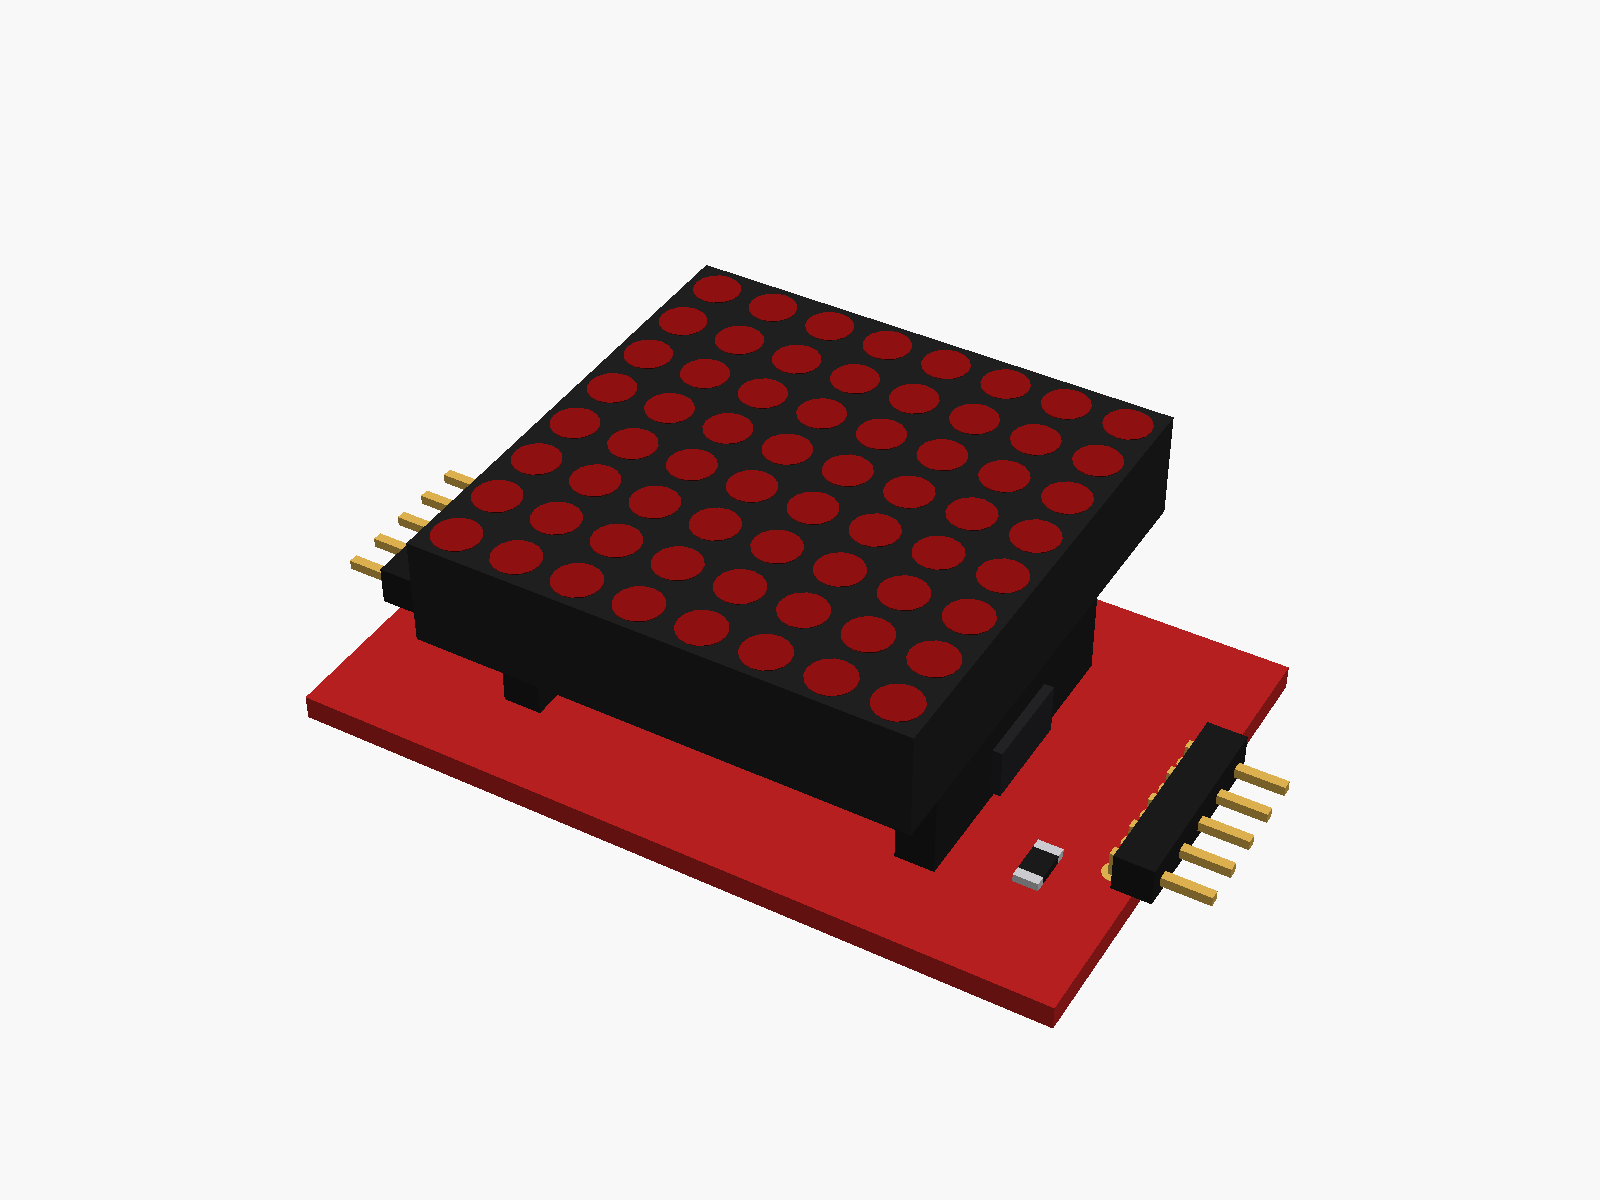
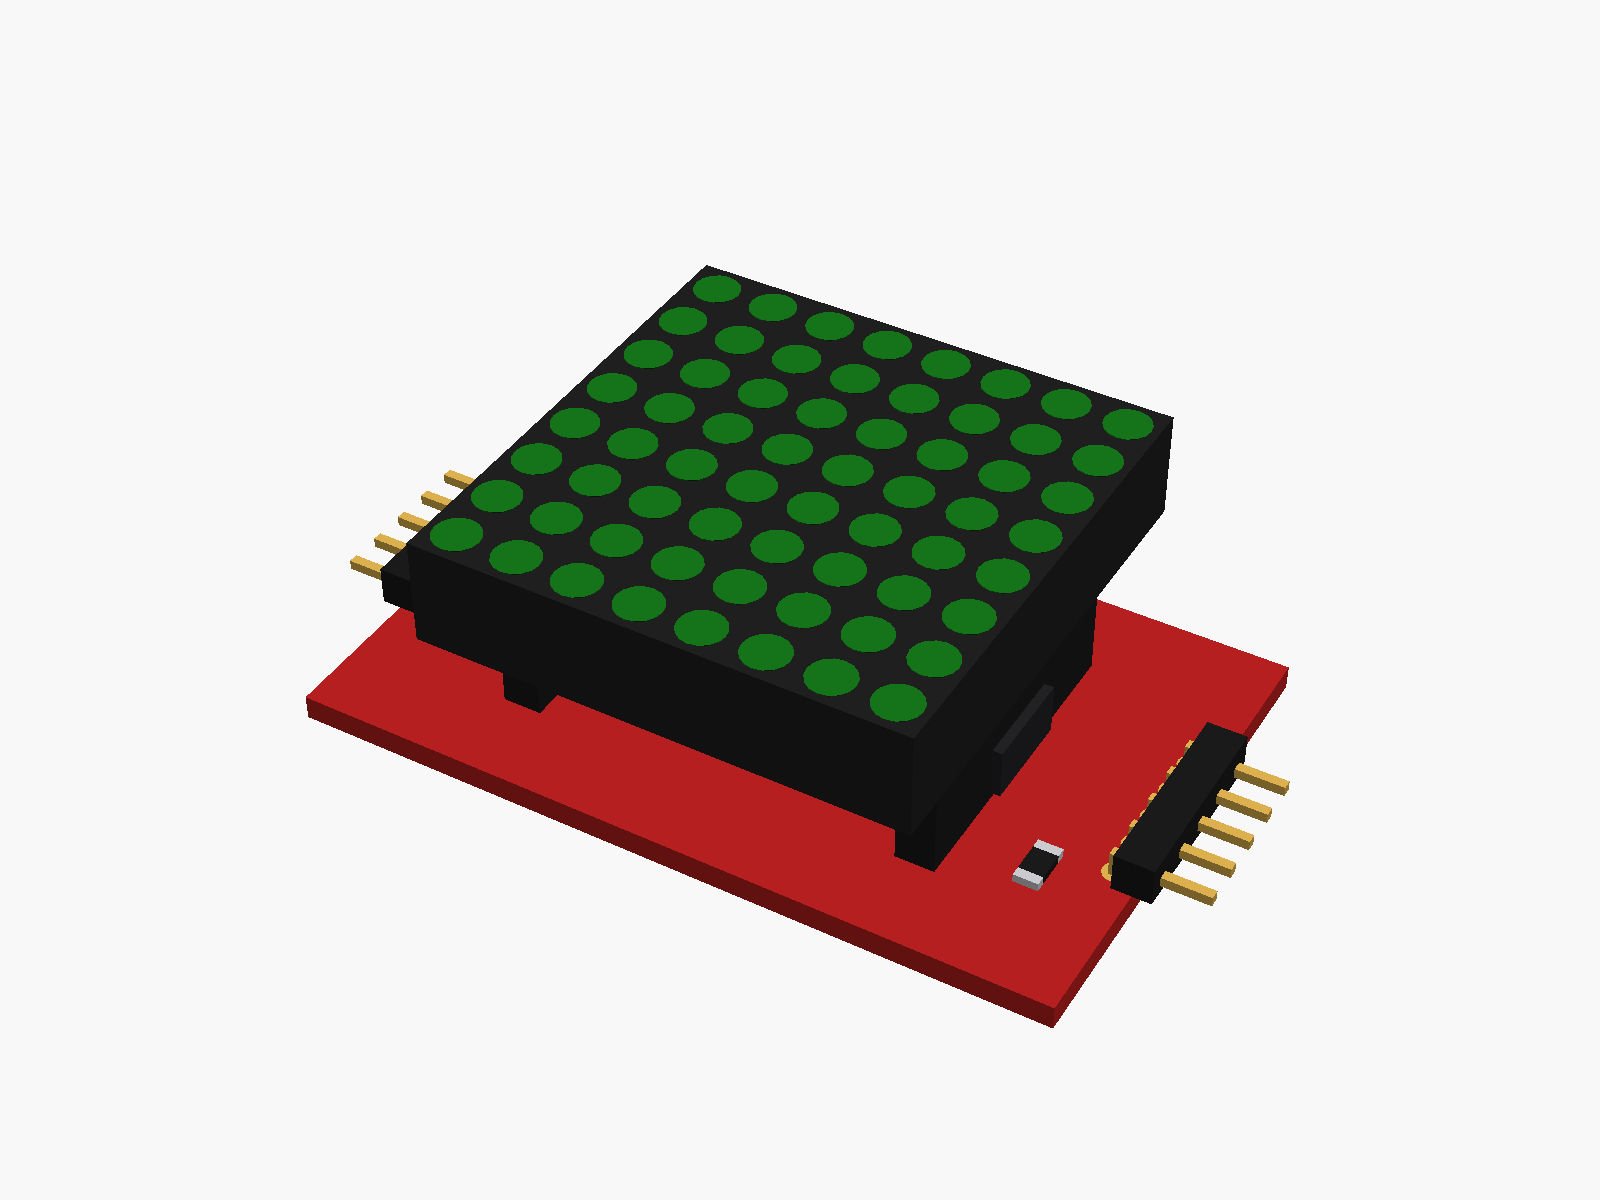
Match the displays to the ones actually ordered
- new: 0.96" IPS TFT ST7735S (from the seller photo), 1.3" OLED SH1106,
  bare 0.36" 4-digit 7-segment display
- MAX7219 boards: LED colour setting, green by default
- LCD1602: I2C backpack on by default, green or blue screen
- ST7789 1.3": corner holes and length from a seller photo; posts as holder
- README marks the models of boards not in the drawer

Changed region(s): [[0.25, 0.2158, 0.7188, 0.6167]]

diff --git a/README.md b/README.md
@@ -51,15 +51,18 @@ Opened on its own, each module file shows the board in its holder behind a piece
 | GY-BME280 / GY-BMP280 (purple, 6 pins) | [`modules/gy_bme280.scad`](modules/gy_bme280.scad) | not yet: typical, from a photo |
 | GY-302 BH1750 light sensor | [`modules/gy302_bh1750.scad`](modules/gy302_bh1750.scad) | not yet: typical, from a photo |
 | VEML7700 light sensor (Adafruit layout) | [`modules/veml7700.scad`](modules/veml7700.scad) | from Adafruit's design files; thickness typical |
-| MAX7219 FC-16 4-in-1 LED matrix (one or more end to end) | [`modules/max7219_fc16.scad`](modules/max7219_fc16.scad) | not yet: typical |
-| MAX7219 single 8x8 LED matrix (DIP kit) | [`modules/max7219_8x8.scad`](modules/max7219_8x8.scad) | not yet: typical |
-| 1.8" TFT 128x160 ST7735 (red, microSD) | [`modules/st7735_18.scad`](modules/st7735_18.scad) | not yet: typical |
-| 1.3" IPS TFT 240x240 ST7789 (7 pins) | [`modules/st7789_13.scad`](modules/st7789_13.scad) | not yet: typical |
+| MAX7219 FC-16 4-in-1 LED matrix, green (one or more end to end) | [`modules/max7219_fc16.scad`](modules/max7219_fc16.scad) | not yet: typical |
+| MAX7219 single 8x8 LED matrix (DIP kit), green | [`modules/max7219_8x8.scad`](modules/max7219_8x8.scad) | not yet: typical |
+| 1.8" TFT 128x160 ST7735 (red, microSD) *(not one of mine)* | [`modules/st7735_18.scad`](modules/st7735_18.scad) | not yet: typical |
+| 1.3" IPS TFT 240x240 ST7789 (GMT130) *(not one of mine)* | [`modules/st7789_13.scad`](modules/st7789_13.scad) | not yet: typical |
 | 0.91" OLED 128x32 SSD1306 | [`modules/ssd1306_091.scad`](modules/ssd1306_091.scad) | not yet: typical |
-| LCD1602, with or without the I2C backpack | [`modules/lcd1602.scad`](modules/lcd1602.scad) | not yet: from a manufacturer's drawing |
-| TM1637 4-digit 7-segment | [`modules/tm1637_4digit.scad`](modules/tm1637_4digit.scad) | not yet: typical |
-| TP4056 charger, USB-C or micro-USB, with or without protection | [`modules/tp4056.scad`](modules/tp4056.scad) | not yet: typical |
-| IP5306 charge/discharge board (MH-CD42) | [`modules/ip5306_mhcd42.scad`](modules/ip5306_mhcd42.scad) | not yet: typical |
+| LCD1602 green, with the I2C backpack (or without) | [`modules/lcd1602.scad`](modules/lcd1602.scad) | not yet: from a manufacturer's drawing |
+| TM1637 4-digit 7-segment module *(not one of mine)* | [`modules/tm1637_4digit.scad`](modules/tm1637_4digit.scad) | not yet: typical |
+| 0.96" IPS TFT 80x160 ST7735S (8 pins) | [`modules/st7735_096.scad`](modules/st7735_096.scad) | not yet: from a seller photo |
+| 1.3" OLED 128x64 SH1106 (I2C) | [`modules/sh1106_13.scad`](modules/sh1106_13.scad) | not yet: typical |
+| Bare 4-digit 7-segment display, 0.36" (red, green, blue, white) | [`modules/seg7_4digit_036.scad`](modules/seg7_4digit_036.scad) | not yet: typical |
+| TP4056 charger, USB-C (mine) or micro-USB, with or without protection | [`modules/tp4056.scad`](modules/tp4056.scad) | not yet: typical |
+| IP5306 charge/discharge board (MH-CD42) *(not one of mine)* | [`modules/ip5306_mhcd42.scad`](modules/ip5306_mhcd42.scad) | not yet: typical |
 
 Displays face up like everything else, so a case with a front panel turns them to face it. Each comes with a `_window` for the front (the lit area, widening outwards) and a holder: posts for boards with holes, or `edge_holder` (a ledge under the edges and low walls) for boards without.
 
@@ -71,7 +74,8 @@ Sensor boards come with posts for their holes (`_holder`, pegs or screws) and a 
 | ![FC-16](images/max7219_fc16.png) | ![8x8](images/max7219_8x8.png) | ![LCD1602](images/lcd1602.png) |
 | ![ST7735](images/st7735_18.png) | ![ST7789](images/st7789_13.png) | ![OLED](images/ssd1306_091.png) |
 | ![TM1637](images/tm1637_4digit.png) | ![LCD1602 with I2C backpack](images/lcd1602_backpack.png) | ![TP4056](images/tp4056.png) |
-| ![IP5306](images/ip5306_mhcd42.png) | | |
+| ![IP5306](images/ip5306_mhcd42.png) | ![0.96 TFT](images/st7735_096.png) | ![1.3 OLED](images/sh1106_13.png) |
+| ![7-segment](images/seg7_4digit_036_demo.png) | | |
 
 ## Files
 
